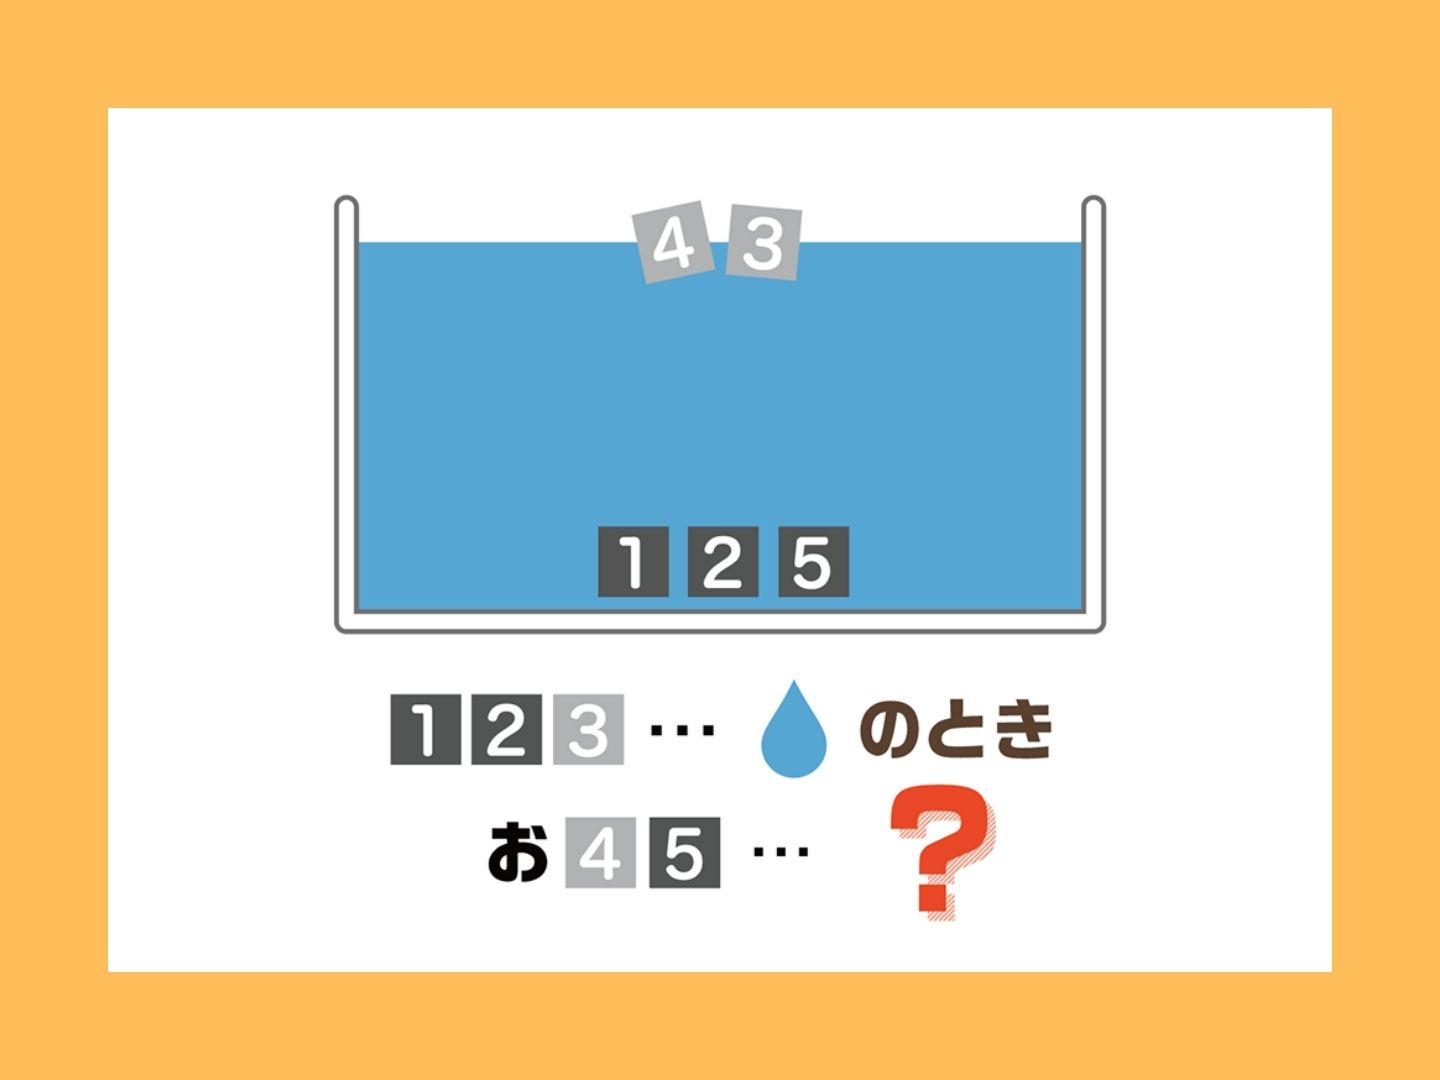
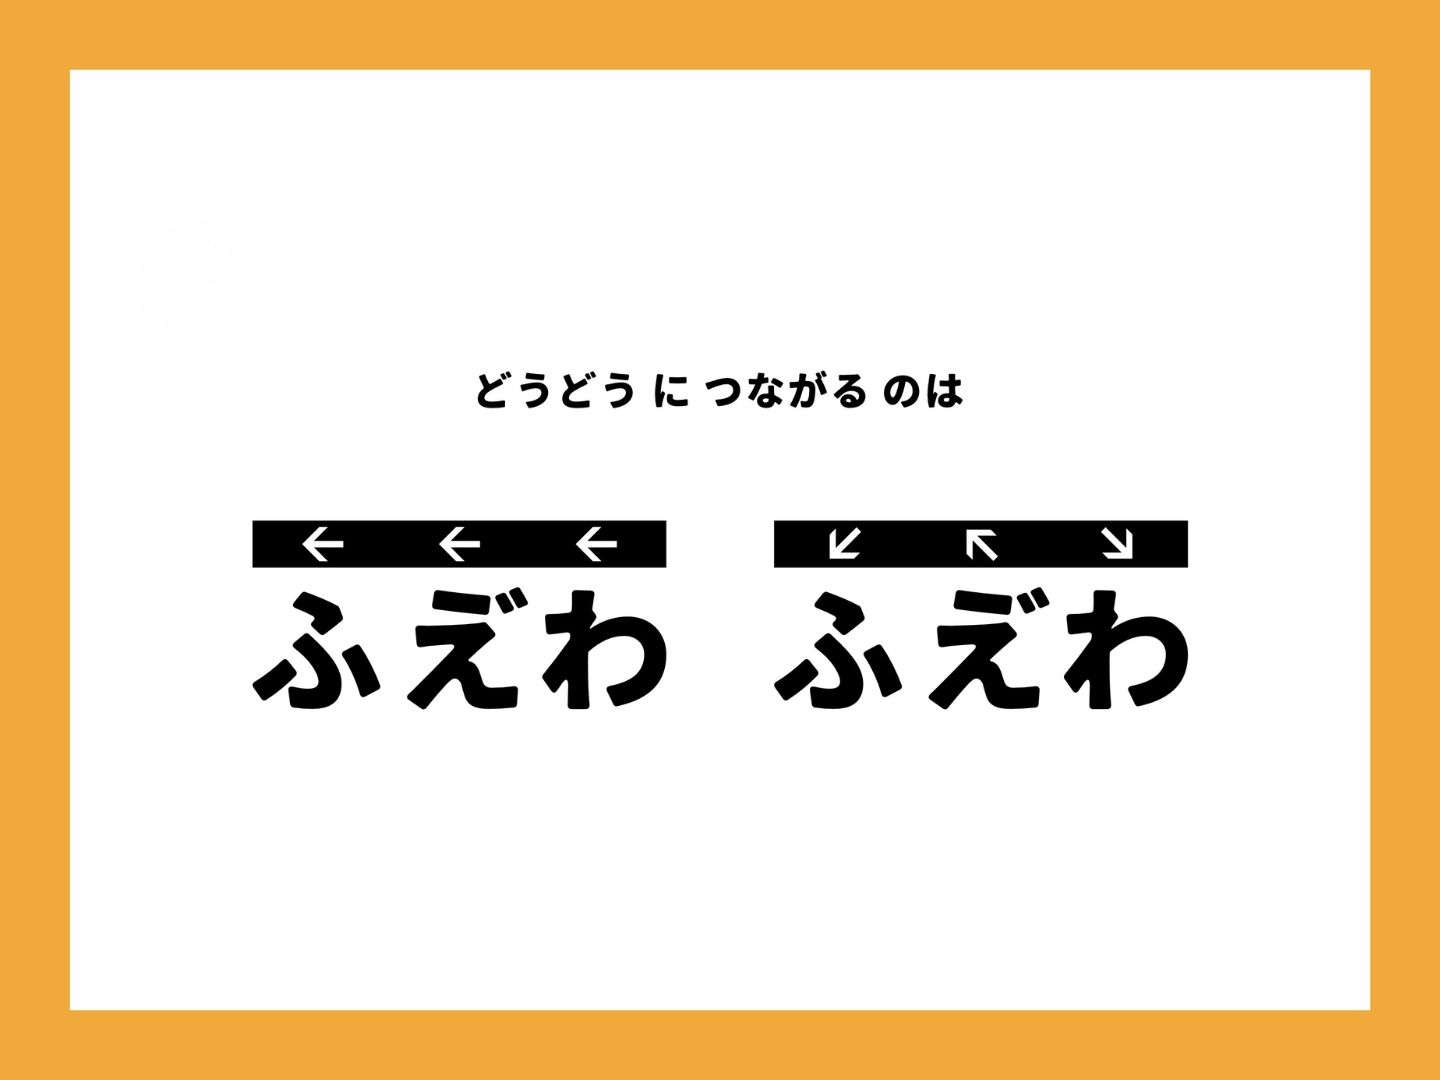
全31問の問題画像と正解を追加、注意書きを削除

diff --git a/index.html b/index.html
@@ -373,7 +373,6 @@ section{scroll-margin-top:84px}
 </div>
 <p style="margin: 0; font-size: 13px; color: #9AA3B5">横にスワイプ、または矢印ボタンで次の問題へ</p>
 </div>
-<p style="margin: 0; font-size: 13px; color: #9AA3B5">※1チーム2〜3名でお申し込みください。18歳未満の方はご参加いただけません。</p>
 </section>
 
 <footer style="border-top: 1px solid #1B2236">
@@ -390,19 +389,73 @@ section{scroll-margin-top:84px}
   // 謎解き問題の画像（Q.01〜Q.31の順）。空欄の問題はプレースホルダーが表示されます。
   // 画像は images フォルダに入れて、'images/ファイル名.jpg' のように指定してください。
   var PUZZLE_IMAGES = [
-    '', 'images/q02.jpg', '', '', '', '', '', '', '', '',
-    '', '', '', '', '', '', '', '', '', '',
-    '', '', '', '', '', '', '', '', '', '',
-    ''
+    'images/q01.jpg', // Q.01
+    'images/q02.jpg', // Q.02
+    'images/q03.jpg', // Q.03
+    'images/q04.jpg', // Q.04
+    'images/q05.jpg', // Q.05
+    'images/q06.jpg', // Q.06
+    'images/q07.jpg', // Q.07
+    'images/q08.jpg', // Q.08
+    'images/q09.jpg', // Q.09
+    'images/q10.jpg', // Q.10
+    'images/q11.jpg', // Q.11
+    'images/q12.jpg', // Q.12
+    'images/q13.jpg', // Q.13
+    'images/q14.jpg', // Q.14
+    'images/q15.jpg', // Q.15
+    'images/q16.jpg', // Q.16
+    'images/q17.jpg', // Q.17
+    'images/q18.jpg', // Q.18
+    'images/q19.jpg', // Q.19
+    'images/q20.jpg', // Q.20
+    'images/q21.jpg', // Q.21
+    'images/q22.jpg', // Q.22
+    'images/q23.jpg', // Q.23
+    'images/q24.jpg', // Q.24
+    'images/q25.jpg', // Q.25
+    'images/q26.jpg', // Q.26
+    'images/q27.jpg', // Q.27
+    'images/q28.jpg', // Q.28
+    'images/q29.jpg', // Q.29
+    'images/q30.jpg', // Q.30
+    'images/q31.jpg'  // Q.31
   ];
   // 各問題の正解（Q.01〜Q.31の順）。別解がある場合は ['かぎ', 'キー'] のように配列で複数指定できます。
   // 判定時は全角/半角・ひらがな/カタカナ・大文字/小文字・空白の違いを無視します。
   var PUZZLE_ANSWERS = [
-    '', 'おたま', '', '', '', '', '', '', '', '',
-    '', '', '', '', '', '', '', '', '', '',
-    '', '', '', '', '', '', '', '', '', '',
-    ''
-  ];
+    'めとろ',           // Q.01
+    'めぐり',           // Q.02
+    'りんねてんしょう', // Q.03
+    'はだぎ',           // Q.04
+    'ないす',           // Q.05
+    'ついん',           // Q.06
+    'かんせい',         // Q.07
+    'のうか',           // Q.08
+    'となり',           // Q.09
+    'ぷーる',           // Q.10
+    'ふぉーす',         // Q.11
+    'こまく',           // Q.12
+    '時計',             // Q.13
+    'Low',              // Q.14
+    '結果的',           // Q.15
+    'いぬ',             // Q.16
+    '自由',             // Q.17
+    'しつげん',         // Q.18
+    'けーき',           // Q.19
+    'らて',             // Q.20
+    'いんく',           // Q.21
+    'ツチフマズ',       // Q.22
+    'くるみ',           // Q.23
+    'りさいくる',       // Q.24
+    'ゆ',               // Q.25
+    'ひこう',           // Q.26
+    'しさつ',           // Q.27
+    '約束',             // Q.28
+    'すうじ',           // Q.29
+    'けいさんき',       // Q.30
+    'きゅうきゅうしゃ'  // Q.31
+    ];
   // 「謎の場所」に表示する文字。行ごとに区切っています（合計31文字）。
   // n文字目は Q.n に正解したときに表示されます。
   var PLACE_ROWS = ['こたえは', 'みついのりぱーく', 'とうきょうどーむほてる', 'ちゅうしゃじょう'];
